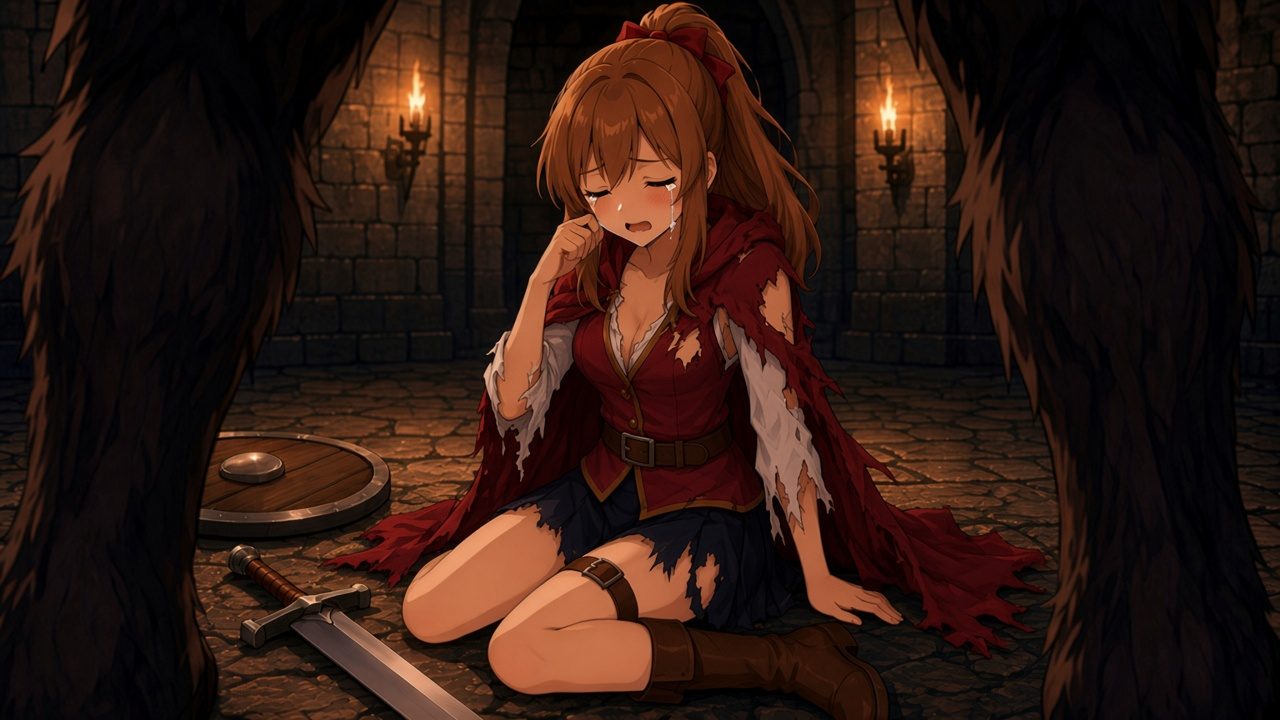
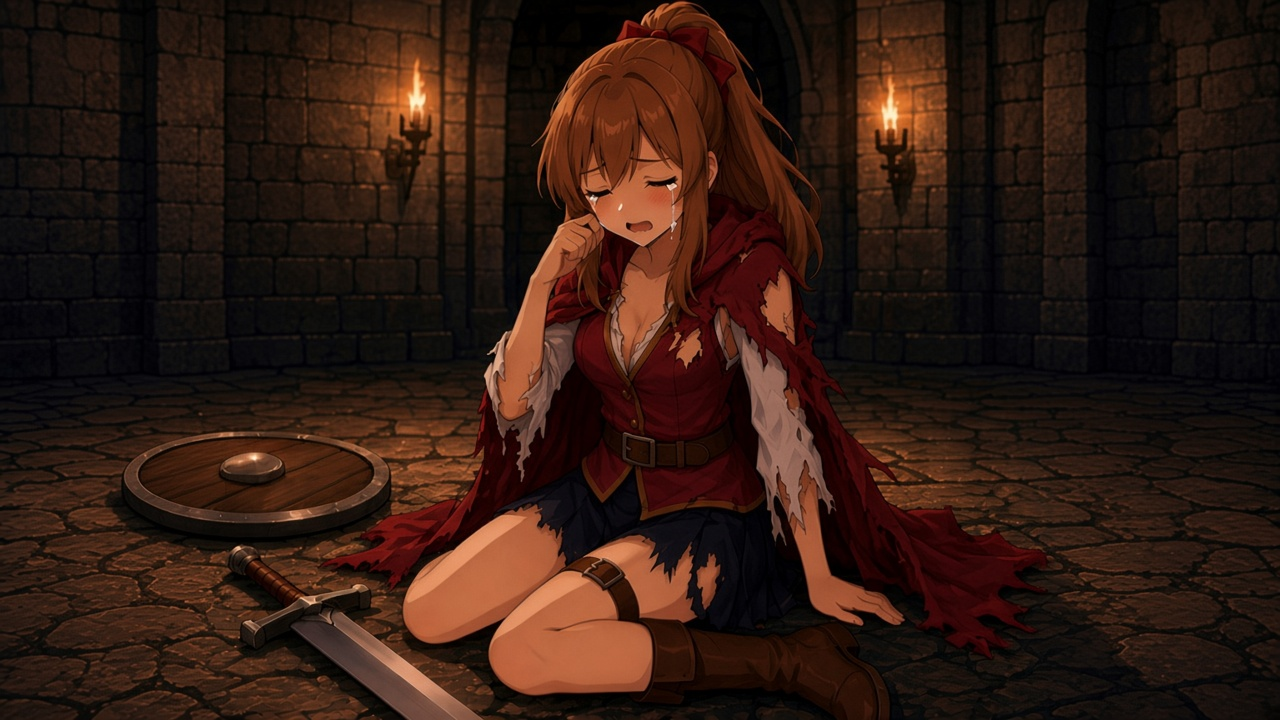
敗北絵からミノタウロスを外す。

diff --git a/index.html b/index.html
@@ -7158,7 +7158,7 @@
         action: "girl-action.jpg?v=5",
         battle: "girl-battle.png?v=40",
         battleRatio: "3 / 4",
-        defeat: "girl-defeat.jpg?v=16",
+        defeat: "girl-defeat.jpg?v=17",
         victory: "girl-victory.jpg?v=26",
         bless: "event-bless.jpg?v=2",
       },
@@ -11361,7 +11361,7 @@
               ${sheetFig("girl-battle.png?v=40", "戦闘", "cut-ref")}
             </div>
             <div class="ref-grid">
-              ${sheetFig("girl-defeat.jpg?v=16", "敗北", "land-ref", "wide-land")}
+              ${sheetFig("girl-defeat.jpg?v=17", "敗北", "land-ref", "wide-land")}
               ${sheetFig("girl-victory.jpg?v=26", "勝利", "land-ref", "wide-land")}
             </div>
             <h3>ジョブ選択</h3>
